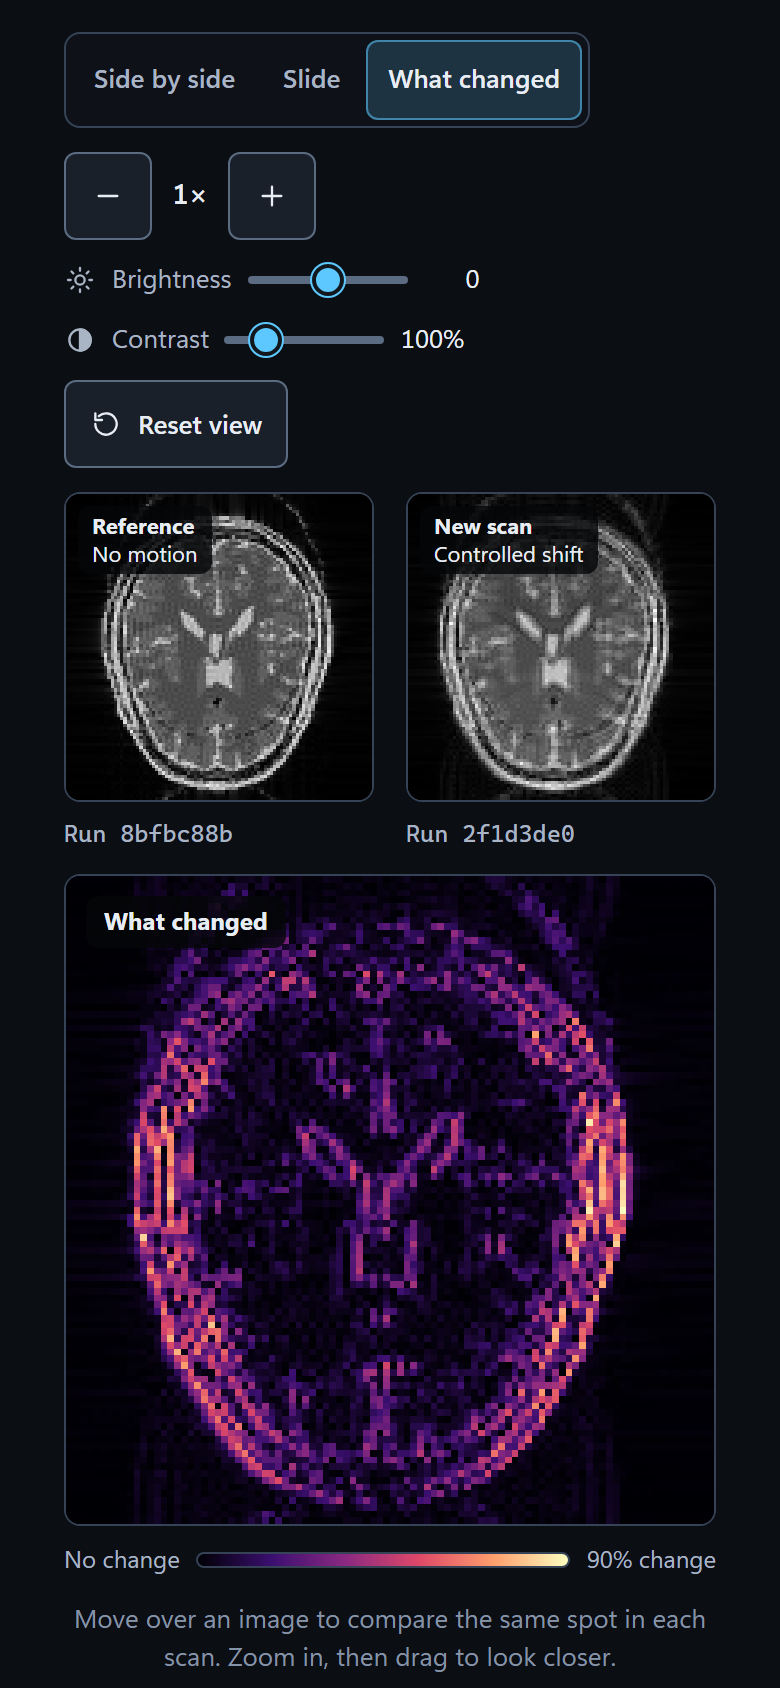
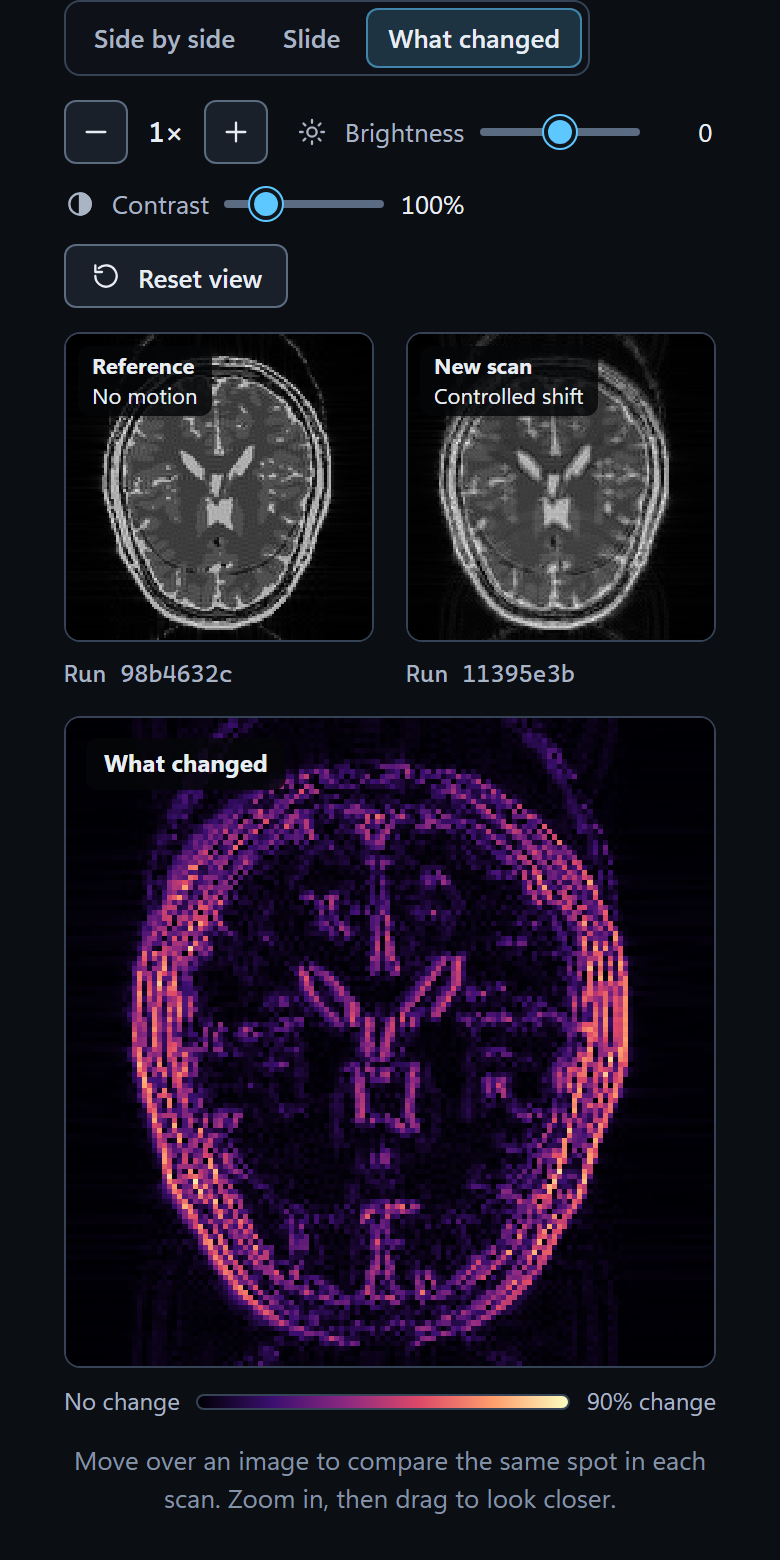
feat(scanlab): sharpen the live MRI image to 128x128
Sample KomaMRI's bundled BrainWeb-derived phantom at 1.0 mm and reconstruct at 128x128. Keep a fixed intensity scale that holds every preset within the 0-1 display range, update tests and docs, credit BrainWeb, and refresh README screenshots from a live synthetic comparison.

Copilot-Session: 3dae0899-03a1-4f70-ac3c-3059c2f25363

diff --git a/scanlab/e2e/scanlab.spec.js b/scanlab/e2e/scanlab.spec.js
@@ -120,7 +120,7 @@ test('fresh startup has no preloaded or warm-up result', async ({ page }) => {
 });
 
 test('scan, keep a reference, scan again: the reference never changes', async ({ page }) => {
-  // Three live 96×96 brain simulations plus full-pixel DICOM verification.
+  // Three live 128×128 brain simulations plus full-pixel DICOM verification.
   test.setTimeout(240000);
   const errors = trackErrors(page);
   await open(page);
@@ -228,7 +228,7 @@ test('the saved DICOM file is exactly what the page shows', async ({ page }) => 
   expect(dataset.string('x00080064')).toBe('SYN');
   expect(dataset.string('x00020010')).toBe('1.2.840.10008.1.2.1');
   const size = baseline.parameters.resolution;
-  expect(size).toBe(96);
+  expect(size).toBe(128);
   expect(dataset.uint16('x00280010')).toBe(size);
   expect(dataset.uint16('x00280011')).toBe(size);
   expect(dataset.uint16('x00280100')).toBe(16);
@@ -261,11 +261,11 @@ test('zoom, pan, brightness and contrast move every image together', async ({ pa
 
   await page.locator('#zoom-in').click();
   await expect(page.locator('#zoom-label')).toHaveText('1.25×');
-  await expect.poll(async () => { const [view] = await sideViews(page); return view.x[1] - view.x[0]; }).toBeCloseTo(96 / 1.25, 3);
+  await expect.poll(async () => { const [view] = await sideViews(page); return view.x[1] - view.x[0]; }).toBeCloseTo(128 / 1.25, 3);
   let [reference, current] = await sideViews(page);
   expect(current).toEqual(reference);
   for (let step = 0; step < 3; step++) await page.locator('#zoom-in').click();
-  await expect.poll(async () => { const [view] = await sideViews(page); return view.x[1] - view.x[0]; }).toBeCloseTo(48, 3);
+  await expect.poll(async () => { const [view] = await sideViews(page); return view.x[1] - view.x[0]; }).toBeCloseTo(64, 3);
 
   // Dragging one image moves both by the same amount.
   const [startView] = await sideViews(page);
@@ -279,7 +279,7 @@ test('zoom, pan, brightness and contrast move every image together', async ({ pa
   await expect.poll(async () => (await sideViews(page))[1].x[0] - startView.x[0]).toBeGreaterThan(8);
   [reference, current] = await sideViews(page);
   expect(current).toEqual(reference);
-  expect(current.x[0] - startView.x[0]).toBeLessThan(11);
+  expect(current.x[0] - startView.x[0]).toBeCloseTo(12.8, 0);
   expect(current.y).toEqual(startView.y);
 
   await page.locator('#pane-current .frame').focus();
@@ -314,7 +314,7 @@ test('zoom, pan, brightness and contrast move every image together', async ({ pa
   await page.keyboard.press('0');
   await expect(page.locator('#zoom-label')).toHaveText('1×');
   await expect(page.locator('#contrast-value')).toHaveText('100%');
-  await expect.poll(async () => { const [view] = await sideViews(page); return [view.x[1] - view.x[0], view.zmin, view.zmax]; }).toEqual([96, 0, 1]);
+  await expect.poll(async () => { const [view] = await sideViews(page); return [view.x[1] - view.x[0], view.zmin, view.zmax]; }).toEqual([128, 0, 1]);
   [reference, current] = await sideViews(page);
   expect(current).toEqual(reference);
 

diff --git a/public/scanlab/app.js b/public/scanlab/app.js
@@ -8,7 +8,7 @@ import {
 } from '/story.js';
 
 const WORKFLOW_VERSION = 'dicom-v2';
-const DEFAULT_SIZE = 96;
+const DEFAULT_SIZE = 128;
 const POLL_RUNNING_MS = 400;
 const POLL_IDLE_MS = 1000;
 const SVG_NS = 'http://www.w3.org/2000/svg';

diff --git a/docs/testing.md b/docs/testing.md
@@ -12,11 +12,11 @@ prerequisite is a failed result, not a reason to skip a test.
 
 | Command | What it runs | Takes about |
 |---|---|---|
-| `npm run scanlab:check` | Every ScanLab test: Julia, Node and browser | 9 minutes |
+| `npm run scanlab:check` | Every ScanLab test: Julia, Node and browser | About 12 minutes |
 | `npm run scanlab:test` | ScanLab Julia and Node tests | 4 minutes |
-| `npm run scanlab:e2e` | ScanLab browser tests | 5 minutes |
+| `npm run scanlab:e2e` | ScanLab browser tests | About 8 minutes |
 | `npm run check` | Every request desk test: Julia, Node and browser | 2 minutes |
-| `npm run check:all` | Both of the above | 11 minutes |
+| `npm run check:all` | Both of the above | About 14 minutes |
 | `node --test test/*.test.js scanlab/test/*.test.js` | Every Node test. No Julia or browser needed | 10 seconds |
 
 The times are rough, from a Windows development machine after setup. While you
@@ -37,7 +37,7 @@ which Git ignores.
 
 | Suite | Files | What it proves |
 |---|---|---|
-| Julia: imaging | `scanlab/test/science.jl` | Each of the three motion presets runs the real KomaMRI and MRIReco code and gives a finite 96 × 96 picture. The same preset gives the same picture again, in a new run. How far each preset changes the picture is pinned. An independent call to the libraries gives the same pixels |
+| Julia: imaging | `scanlab/test/science.jl` | Each of the three motion presets runs the real KomaMRI and MRIReco code and gives a finite 128 × 128 picture. The same preset gives the same picture again, in a new run. How far each preset changes the picture is pinned. An independent call to the libraries gives the same pixels |
 | Julia: runs and the reference | `scanlab/test/state.jl` | Bad input is refused. Only one scan runs at a time. The reference never changes after later scans or a failed scan, and a failure says so. Every run computes; nothing is replayed. The activity list names who did what, and unknown names are refused |
 | Julia: DICOM file | `scanlab/test/dicom.jl` | A saved file reads back to the same picture within a measured rounding error. It is a Secondary Capture marked synthetic, with no invented orientation or pixel spacing. Each save gets new IDs. The reference file's bytes never change |
 | Julia: service | `scanlab/test/server.jl` | Routes, methods, the session token and origin checks. A running scan never freezes the server. The start-up rehearsal leaves no result behind |
@@ -82,13 +82,13 @@ Playwright 1.64.0 (Chromium). Everything passed and nothing was skipped.
 
 | Suite | Passed | Test time |
 |---|---|---|
-| ScanLab Julia: imaging | 61 of 61 | 2 min 19 s |
-| ScanLab Julia: runs and the reference | 47 of 47 | 1.9 s |
-| ScanLab Julia: activity and change measurements | 40 of 40 | 1.1 s |
-| ScanLab Julia: DICOM file | 26 of 26 | 2.0 s |
-| ScanLab Julia: service | 82 of 82 | 29.8 s |
-| ScanLab Node | 38 of 38 | 5.8 s |
-| ScanLab browser | 23 of 23 | 5.3 min |
+| ScanLab Julia: imaging | 70 of 70 | 3 min 23 s |
+| ScanLab Julia: runs and the reference | 47 of 47 | 1.7 s |
+| ScanLab Julia: activity and change measurements | 40 of 40 | 0.3 s |
+| ScanLab Julia: DICOM file | 26 of 26 | 0.9 s |
+| ScanLab Julia: service | 82 of 82 | 20.5 s |
+| ScanLab Node | 38 of 38 | 3.1 s |
+| ScanLab browser | 23 of 23 | 8.0 min |
 | Request desk Julia: request store | 39 of 39 | 1.7 s |
 | Request desk Julia: HTTP API | 84 of 84 | 29.4 s |
 | Request desk Julia: study | 14 of 14 | 10.4 s |
@@ -104,8 +104,8 @@ a record of one run, not a promise. Run the commands yourself before you present
   through the same web page it shows. The host app blocks desktop automation of
   itself, so no test or recording drives the Copilot app. A person has to open the
   canvas, run No motion, keep the reference and run Controlled shift. The
-  screenshots in the README are browser captures. Their "Copilot" entries were sent
-  through the Canvas adapter, not by a live Copilot session.
+  README screenshots are browser captures. Their "Copilot" entries use the local
+  API's self-reported actor label, not a live Copilot session or Canvas action.
 - **Screen readers.** The tests cover keyboard access, a skip link and tap size.
   They do not replace a pass with a screen reader.
 - **Clinical meaning.** The numbers describe a simulated picture of a published

diff --git a/docs/credits.md b/docs/credits.md
@@ -34,6 +34,8 @@ This is a published digital phantom, not a patient record. Please cite:
 - B. Aubert-Broche, M. Griffin, G. B. Pike, A. C. Evans, D. L. Collins, "Twenty new
   digital brain phantoms for creation of validation image data bases,"
   *IEEE Trans. Med. Imaging* 25(11), 2006.
+- C. A. Cocosco, V. Kollokian, R. K.-S. Kwan, A. C. Evans, "BrainWeb: Online
+  Interface to a 3D MRI Simulated Brain Database," *NeuroImage* 5(4), 1997.
 - C. Castillo-Passi et al., "KomaMRI.jl: an open-source framework for general MRI
   simulations with GPU acceleration," *Magnetic Resonance in Medicine* 90(1), 2023.
 
@@ -50,14 +52,14 @@ not claim conformance certification.
 
 ## Reference datasets (evaluated, not bundled)
 
-ScanLab ships no external image files. Its only image source is the BrainWeb-derived phantom that
-the pinned KomaMRI library bundles (see above).
-These candidates were reviewed for a possible read-only reference study. None is included,
-because adding one would expand the approved synthetic-only scope.
+ScanLab ships no external image files. Its only image source is the BrainWeb-derived
+phantom that the pinned KomaMRI library bundles (see above). The live experiment
+remains limited to that fixed phantom. A separate reference image is not bundled.
 
 | Candidate | Description | License | Status |
 |---|---|---|---|
-| [pydicom-data](https://github.com/pydicom/pydicom-data) `MR_small.dcm` | 64×64 MR slice, downsized from NEMA WG-04 `MR1_UNC`; patient-like names replaced | Repository is MIT, © 2020 Dicom in Python. The file notes say "no restriction" is believed | Preferred candidate; awaiting approval |
+| [BrainWeb Normal Brain Database](https://brainweb.bic.mni.mcgill.ca/brainweb/selection_normal.html) | Three-dimensional simulated T1-, T2- and PD-weighted brain volumes with selectable noise and slice-thickness variants | The reviewed pages request citation but do not establish redistribution terms | Best fit for a synthetic visual reference; not downloaded or bundled pending terms review |
+| [pydicom-data](https://github.com/pydicom/pydicom-data) `MR_small.dcm` | 64×64 MR slice, downsized from NEMA WG-04 `MR1_UNC`; patient-like names replaced | Repository is MIT, © 2020 Dicom in Python. The file notes say "no restriction" is believed | Not selected; BrainWeb is a closer synthetic visual reference |
 | [TCIA Phantom FDA](https://www.cancerimagingarchive.net/collection/phantom-fda/) | CT of a physical anthropomorphic chest phantom; no human subjects | See the TCIA collection page; citation required | Large; not evaluated further |
 | Hugging Face [`ndonyapour/dicom-sample-files`](https://huggingface.co/datasets/ndonyapour/dicom-sample-files) | 10–40 MB CT/MR archives | MIT tag; provenance unclear | Rejected |
 | Hugging Face `UniqueData/dicom-brain-dataset`, `AIxBlock/MRI-brain-cancer-dicom-100-plus-patients` | Brain MRI sets | Non-commercial (CC BY-NC variants) | Rejected |

diff --git a/docs/how-it-works.md b/docs/how-it-works.md
@@ -28,7 +28,7 @@ The page shows four stages. They are real: the service reports each one as it
 happens.
 
 1. **Simulate the scan.** KomaMRI simulates the scanner and the head. MRIReco
-   turns the signal into a 96 × 96 picture.
+   turns the signal into a 128 × 128 picture.
 2. **Save as DICOM file.** DICOM.jl writes the picture as a DICOM file, the
    standard format for medical images.
 3. **Open the file again.** The file is read back from its bytes.
@@ -45,13 +45,13 @@ ScanLab does not implement MRI physics. It uses libraries that already do
 (see [credits](credits.md)).
 
 - **Head:** KomaMRI's bundled `brain_phantom2D`, a slice of the BrainWeb digital
-  brain model, sampled at 1.5 mm with 11,554 simulated points. It is a published
+  brain model, sampled at 1.0 mm with 25,971 simulated points. It is a published
   synthetic phantom, not a person.
 - **Scanner:** KomaMRI's built-in single-shot EPI sequence, simulated on the CPU
-  and reconstructed to 96 × 96 pixels over a 0.23 m field of view.
+  and reconstructed to 128 × 128 pixels over a 0.23 m field of view.
 - **Movement:** the head shifts left and right while the scan is being read out.
   That is what produces the ghosting and blur.
-- **Brightness:** every image is divided by the same constant (3.0), so both
+- **Brightness:** every image is divided by the same constant (3.8), so both
   scans share one 0–1 scale. Nothing is normalized per image, so signal lost to
   movement stays visible.
 
@@ -67,7 +67,7 @@ synthetic subject, and unsigned 16-bit `MONOCHROME2` pixels.
 - Every scan gets new series and instance IDs. One synthetic study groups the
   scans in a session.
 - No patient orientation, pixel spacing or scanner details are claimed, and the
-  96 × 96 image is never enlarged to look more detailed.
+  128 × 128 image is never enlarged to look more detailed.
 - Storing decimals as 16-bit integers rounds them. The rounding error is
   measured, and it must not exceed half of one stored step. Stored pixels,
   dimensions and identifiers must come back exactly. Any failure rejects the
@@ -129,7 +129,8 @@ the Copilot app Canvas use the same page and the same running state.
 - **Warm start.** Starting takes about three minutes the first time. Before it
   prints the URL, the service rehearses a scan, keep, compare and download on a
   throwaway session and discards the result. The first live click is then quick.
-  A warm scan takes about five seconds.
+  A warm scan took about 20 seconds on the development machine; slower CPUs may
+  take longer.
 - **Local only.** Every `/api` request needs the session token in an
   `x-scanlab-token` header, and the browser origin is checked. The page receives
   the token in the URL fragment. Do not share that URL or a screenshot of it.

diff --git a/README.md b/README.md
@@ -46,9 +46,9 @@ real run, and a plain-words activity list that names who did what.*
 |---|---|
 | ![ScanLab controls on a phone](docs/images/scanlab-phone-controls.png) | ![ScanLab comparison on a phone](docs/images/scanlab-phone-compare.png) |
 
-These are real browser captures of the running app, using practice data. The
-"Copilot" entries in the activity list were sent through the same canvas actions
-the Copilot app calls. They are not from a live Copilot app session.
+These are real browser captures of the running app with synthetic data. The
+"Copilot" activity entries were added by the local screenshot harness through the
+API's display label; they do not come from a live Copilot app session.
 
 ## Quick start
 
@@ -69,8 +69,9 @@ and runs every ScanLab test, which takes several minutes. `scanlab` starts the
 app. Wait for `ScanLab ready: <url>` and open that address.
 
 The first start takes about three minutes while Julia compiles and rehearses a
-scan on a throwaway session. After that, a scan takes about five seconds. The
-address carries a private token for this computer, so do not share it.
+scan on a throwaway session. A warmed scan took about 20 seconds on the measured
+development machine; allow extra time on slower CPUs. The address carries a
+private token for this computer, so do not share it.
 
 ## Use it with GitHub Copilot
 

diff --git a/docs/presenting.md b/docs/presenting.md
@@ -1,7 +1,8 @@
 # Presenting ScanLab
 
 A step-by-step script for showing ScanLab and GitHub Copilot together. Rehearse
-it once on your own machine first. A warm scan takes about five seconds.
+it once on your own machine first. A warm scan took about 20 seconds on the
+measured development machine; allow extra time on slower CPUs.
 
 ## Before the audience joins
 
